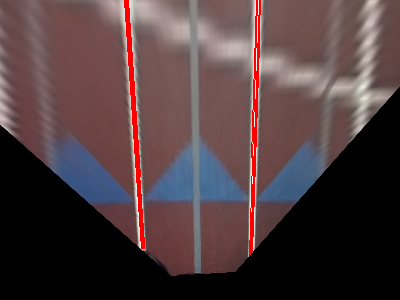
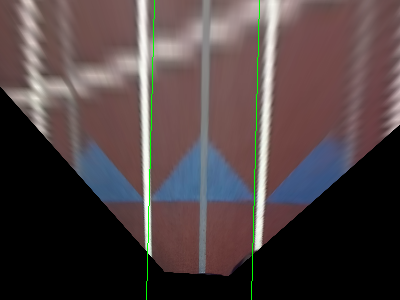
add track finder node

diff --git a/final_race/track_pipeline.py b/final_race/track_pipeline.py
@@ -1,7 +1,7 @@
 import cv2
 import numpy as np
 import time 
-from homography import get_homography_matrix
+from homography import get_homography_matrix, CENTER, XSCALE
 
 # homography matrix (from lab4 visual servoing)
 M = get_homography_matrix()
@@ -20,6 +20,8 @@ def get_filtered_lines(img):
     
     # flip vertically
     img_out = cv2.flip(img_out, 0)
+    # flip horizontally
+    img_out = cv2.flip(img_out, 1)
 
     # cv2.imwrite('outputs/homography{0}.png'.format(i), img_out)
 
@@ -36,9 +38,10 @@ def get_filtered_lines(img):
     # hough line transform
     lines = cv2.HoughLinesP(thresh, rho=1, theta=np.pi/180, threshold=50, minLineLength=150, maxLineGap=10)
     lines_filtered = []
+    angle_from_vertical = []
 
     if lines is None:
-        return img, lines_filtered
+        return img, lines_filtered, None
 
     for line in lines:
         x1, y1, x2, y2 = line[0]
@@ -47,38 +50,59 @@ def get_filtered_lines(img):
         if abs(y1 - y2) < 40:
             continue
 
+        if x2 == x1:
+            x2 += 1
+
         # if slope is small, ignore it
         slope = (1.0 * y2 - y1) / (1.0 * x2 - x1)
         if abs(slope) < 1:
             continue
 
+        angle_from_vertical.append(np.arctan(-(x2 - x1) * 1.0 / (y2 - y1)))
+
         # y = mx + b
         # -y/m = x + b/m
         # -b/m = x + y/m
         # y = 0 implies x = -b/m
-        x_intercept = x1 + (y1 / slope)
+        x_intercept = ((x1 - (y1 / slope) + height / slope) - CENTER) / XSCALE
         # y_intercept = y1 - (slope * x1)
         lines_filtered.append([slope, x_intercept])
 
         thickness = 1 # adjust this to the desired line thickness
-        cv2.line(img, (x1, y1), (x2, y2), (0, 0, 255), thickness)
+        # cv2.line(img, (x1, y1), (x2, y2), (0, 0, 255), thickness)
 
+    angle_from_vertical = np.mean(angle_from_vertical)
+    # print(angle_from_vertical * 180 / np.pi)
     lines_filtered = np.array(lines_filtered)
-    # cluster lines?
+    if lines_filtered.size == 0:
+        return img, [], None
+    x_intercept_sorted = np.sort(lines_filtered[:, 1])
+    x_intercept_filtered = []
 
-    return img, lines_filtered
+    for i in range(len(x_intercept_sorted)):
+        if i == 0:
+            x_intercept_filtered.append(x_intercept_sorted[i])
+        elif abs(x_intercept_sorted[i] - x_intercept_sorted[i-1]) > 0.1:
+            x_intercept_filtered.append(x_intercept_sorted[i])
+
+    for x_intercept in x_intercept_filtered:
+        x = int((x_intercept * XSCALE) + CENTER)
+        cv2.line(img, (x + int(np.tan(angle_from_vertical)*height), 0), (x, height), (0, 255, 0), 1)
+    # cluster lines?
+    # print(x_intercept_filtered)
+
+    # returns image with lines drawn on it, the likely x positions of the track, and the angle from vertical
+    return img, x_intercept_filtered, angle_from_vertical
 
 
 if __name__ == '__main__':
     # start timing
     start = time.time()
-    for i in range(1, 9):
-        if i != 7: 
-            continue
+    for i in range(1, 31):
         
         img = cv2.imread('samples/track{0}.png'.format(i))
         
-        img, lines = get_filtered_lines(img)
+        img, x_intercept_filtered, angle_from_vertical= get_filtered_lines(img)
 
         # save img to output.png
         cv2.imwrite('outputs/output{0}.png'.format(i), img)

diff --git a/final_race/track_finder.py b/final_race/track_finder.py
@@ -9,6 +9,7 @@ from cv_bridge import CvBridge, CvBridgeError
 from sensor_msgs.msg import Image
 from geometry_msgs.msg import Point #geometry_msgs not in CMake file
 from track_pipeline import get_filtered_lines
+from std_msgs.msg import Float32MultiArray
 
 class TrackFinder():
     """
@@ -19,20 +20,57 @@ class TrackFinder():
     def __init__(self):
         # toggle line follower vs cone parker
         self.LineFollower = False
+        self.left_pos = -0.5
+        self.right_pos = 0.5
+        self.angle = 0
 
         # Subscribe to ZED camera RGB frames
-        # self.cone_pub = rospy.Publisher("/relative_cone_px", ConeLocationPixel, queue_size=10)
-        # self.debug_pub = rospy.Publisher("/cone_debug_img", Image, queue_size=10)
+        self.info_pub = rospy.Publisher("/track_pos", Float32MultiArray, queue_size=10)
+        self.debug_pub = rospy.Publisher("/track_debug_img", Image, queue_size=10)
         self.image_sub = rospy.Subscriber("/zed/zed_node/rgb/image_rect_color", Image, self.image_callback)
         self.bridge = CvBridge() # Converts between ROS images and OpenCV Images
 
     def image_callback(self, image_msg):
         image = self.bridge.imgmsg_to_cv2(image_msg, "bgr8")
-        cv2.imwrite('outputs/zed_image.png', image)
-        # img, filtered_lines = get_filtered_lines(image)
+        # cv2.imwrite('outputs/zed_image.png', image)
+        new_image, x_intercept_filtered, angle_from_vertical = get_filtered_lines(image)
+        if angle_from_vertical is None:
+            return
         
-        # self.debug_pub.publish(debug_msg)
+        if len(x_intercept_filtered) == 0:
+            return
 
+        debug_msg = self.bridge.cv2_to_imgmsg(new_image, "bgr8")
+        self.debug_pub.publish(debug_msg)
+
+        # find closest left and right to last left/right
+        left_best = 1000
+        right_best = 1000
+        # rospy.loginfo_throttle(0.5, x
+        for x in x_intercept_filtered:
+            # rospy.loginfo(0.5, x)
+            if abs(x-self.left_pos) < abs(left_best-self.left_pos):
+                left_best = x
+            
+            if abs(x-self.right_pos) < abs(right_best-self.right_pos):
+                right_best = x
+        
+        # update if values are reasonable
+        if abs(left_best - self.left_pos) < 0.2:
+            self.left_pos = left_best
+        
+        if abs(right_best - self.right_pos) < 0.2:
+            self.right_pos = right_best
+
+        if abs(self.angle - angle_from_vertical) < 0.2:
+            self.angle = angle_from_vertical
+
+        float_array_msg = Float32MultiArray()
+        float_array_msg.data = [self.left_pos, self.right_pos, self.angle]
+
+        # rospy.loginfo_throttle(0.5, x_intercept_filtered)
+        rospy.loginfo_throttle(0.5, [left_best, right_best, self.angle])
+        
     
         
 

diff --git a/final_race/homography.py b/final_race/homography.py
@@ -12,6 +12,9 @@ from ackermann_msgs.msg import AckermannDriveStamped
 from visualization_msgs.msg import Marker
 from visual_servoing.msg import ConeLocation, ConeLocationPixel
 
+CENTER = 200
+XSCALE = 100
+
 def get_homography_matrix():
 
     #The following collection of pixel locations and corresponding relative
@@ -43,8 +46,8 @@ def get_homography_matrix():
     np_pts_ground = np_pts_ground * METERS_PER_INCH
     np_pts_ground = np.float32(np_pts_ground[:, np.newaxis, :])
 
-    np_pts_ground = np_pts_ground * 100
-    np_pts_ground[:, :, 1] += 200
+    np_pts_ground = np_pts_ground * XSCALE
+    np_pts_ground[:, :, 1] += CENTER
 
     # flip x and y
     np_pts_ground = np_pts_ground[:, :, ::-1]
